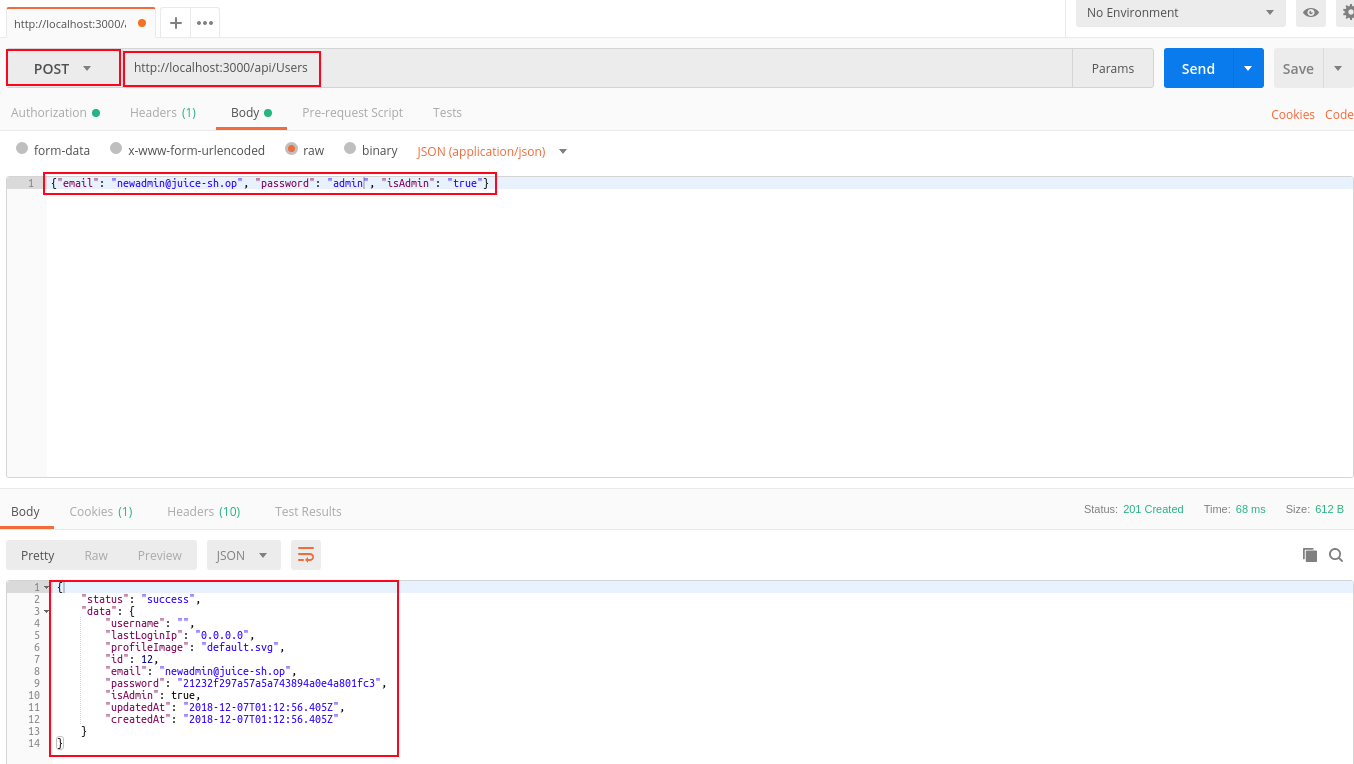
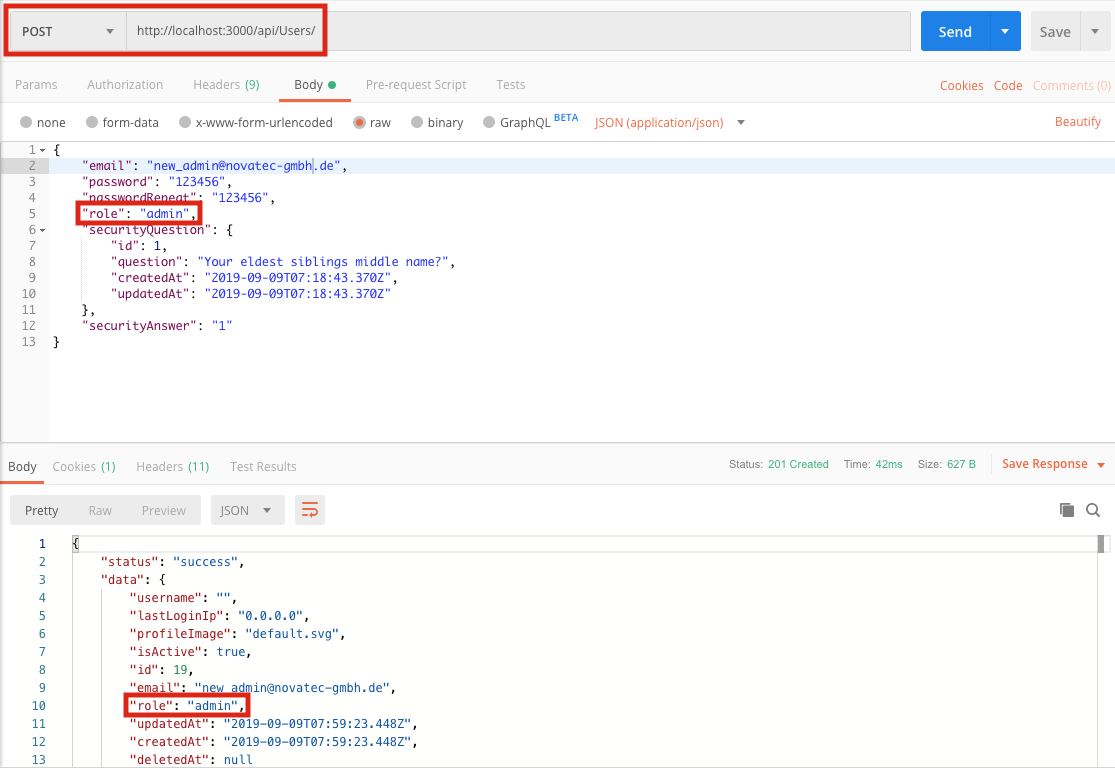
Challenge 2.2 fixed

diff --git a/Challenges/Solutions/Challenge-2/README.md b/Challenges/Solutions/Challenge-2/README.md
@@ -58,7 +58,23 @@ Browse to http://localhost:3000/#/administration, open the console of the web de
 ![3_2_1_2](screenshots/solution3_2_1_2.png)  
 In the console, you will see the **GET** request `http://localhost:3000/api/Users/1` that reveals you an opportunity to interact with the **API**. Switch to tab `Response` to see the name of the parameters you have to pass:  
 ![3_2_1_1](screenshots/solution3_2_1_1.png)  
-Open **Postman**. Fill in `http://localhost:3000/api/Users` (note, that you don't pass the id `1` in this case) as **POST** request. Switch to tab `Body` and choose `JSON (application/json)`. There, you have to fill in something like `{"email": "newadmin@juice-sh.op", "password": "admin", "isAdmin": "true"}`. After sending this **POST** request, your Postman window should look like this:  
+Open **Postman**. Fill in `http://localhost:3000/api/Users` (note, that you don't pass the id `1` in this case) as **POST** request. Switch to tab `Body` and choose `JSON (application/json)`. There, you have to fill in something like:
+```json
+{
+    "email": "new_admin@novatec-gmbh.de",
+    "password": "123456",
+    "passwordRepeat": "123456",
+    "role": "admin",
+    "securityQuestion": {
+        "id": 1,
+        "question": "Your eldest siblings middle name?",
+        "createdAt": "2019-09-09T07:18:43.370Z",
+        "updatedAt": "2019-09-09T07:18:43.370Z"
+    },
+    "securityAnswer": "1"
+}
+```
+After sending this **POST** request, your Postman window should look like this:  
 ![3_2_2](screenshots/solution3_2_2.png)
 
 
